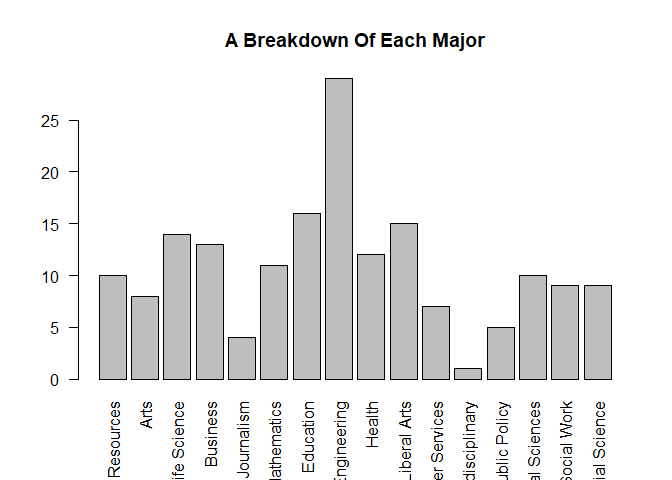
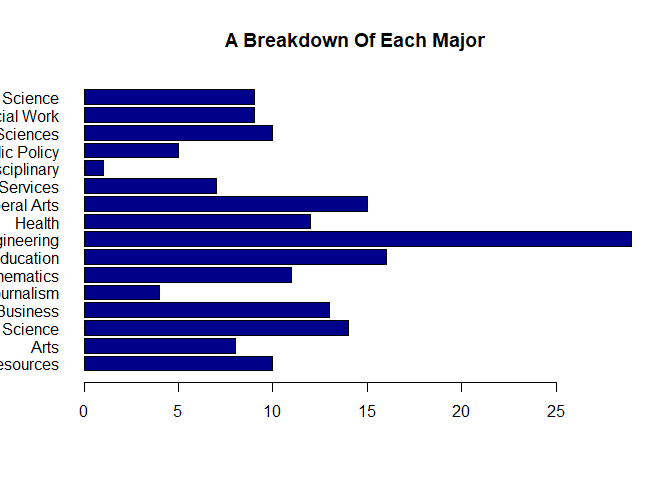
Added final information before turning in homework

diff --git a/CMadding_Livesession3assignment.html b/CMadding_Livesession3assignment.html
@@ -11,7 +11,7 @@
 
 <meta name="author" content="Chad Madding" />
 
-<meta name="date" content="2018-09-13" />
+<meta name="date" content="2018-09-16" />
 
 <title>Live Session 3 Assignment</title>
 
@@ -124,7 +124,7 @@ $(document).ready(function () {
 
 <h1 class="title toc-ignore">Live Session 3 Assignment</h1>
 <h4 class="author"><em>Chad Madding</em></h4>
-<h4 class="date"><em>September 13, 2018</em></h4>
+<h4 class="date"><em>September 16, 2018</em></h4>
 
 </div>
 
@@ -133,7 +133,11 @@ $(document).ready(function () {
 <h3>Questions</h3>
 <div id="github-cloning-20-points-using-git-clone-the-following-github-repository-to-your-local-machine-httpsgithub.comcaesar0301awesome-public-datasets.-in-rmarkdown-please-show-the-code-commented-out-as-its-not-r-syntax-that-you-used-to-create-a-new-directory-navigate-to-the-appropriate-directory-and-clone-the-repository-to-it.-one-git-command-per-line-please." class="section level4">
 <h4>1. GitHub Cloning (20 points): Using Git, clone the following GitHub repository to your local machine: <a href="https://github.com/caesar0301/awesome-public-datasets" class="uri">https://github.com/caesar0301/awesome-public-datasets</a>. In RMarkdown, please show the code (commented out, as it’s not R syntax) that you used to create a new directory, navigate to the appropriate directory, and clone the repository to it. One Git command per line, please.</h4>
-<p>mkdir awesome-public-datasets cd awesome-public-datasets git clone <a href="https://github.com/awesomedata/awesome-public-datasets.git" class="uri">https://github.com/awesomedata/awesome-public-datasets.git</a></p>
+<ol style="list-style-type: decimal">
+<li>mkdir awesome-public-datasets</li>
+<li>cd awesome-public-datasets</li>
+<li>git clone <a href="https://github.com/awesomedata/awesome-public-datasets.git" class="uri">https://github.com/awesomedata/awesome-public-datasets.git</a></li>
+</ol>
 </div>
 <div id="data-summary-20-points-from-this-aforementioned-cloned-repo-please-extract-titanic.csv.zip.-to-be-clear-this-does-not-have-to-be-done-in-git-or-command-line." class="section level4">
 <h4>2. Data Summary (20 points): From this aforementioned cloned repo, please extract titanic.csv.zip. To be clear, this does not have to be done in Git or command line.</h4>
@@ -199,20 +203,19 @@ table(titanic$Sex)</code></pre>
 <pre class="r"><code># A chart showing the breakdown of females and males on the Titanic
 sex &lt;- ggplot(titanic) + geom_bar(aes(x = titanic$Sex, fill = titanic$Sex))
 sex + labs(fill = &quot;Sex&quot;)+ labs(x = &quot;Sex&quot;)+ labs(title = &quot;Females and Males on the Titanic&quot;)</code></pre>
[1 lines of base64/hex data omitted]
-<pre class="r"><code>str(Titanic)</code></pre>
-<pre><code>##  'table' num [1:4, 1:2, 1:2, 1:2] 0 0 35 0 0 0 17 0 118 154 ...
-##  - attr(*, &quot;dimnames&quot;)=List of 4
-##   ..$ Class   : chr [1:4] &quot;1st&quot; &quot;2nd&quot; &quot;3rd&quot; &quot;Crew&quot;
-##   ..$ Sex     : chr [1:2] &quot;Male&quot; &quot;Female&quot;
-##   ..$ Age     : chr [1:2] &quot;Child&quot; &quot;Adult&quot;
-##   ..$ Survived: chr [1:2] &quot;No&quot; &quot;Yes&quot;</code></pre>
-<pre class="r"><code>apply(Titanic, c(3, 4), sum)</code></pre>
[1 lines of base64/hex data omitted]
+<ol start="3" style="list-style-type: lower-alpha">
+<li>Please use one apply function (to review: swirl() modules 11, 12) to output the means of Age, Fare, and Survival. Make sure the output is a real number for all three means.</li>
+</ol>
+<pre class="r"><code>#str(Titanic)
+#one apply function
+apply(Titanic, c(3, 4), sum)</code></pre>
 <pre><code>##        Survived
 ## Age       No Yes
 ##   Child   52  57
 ##   Adult 1438 654</code></pre>
-<pre class="r"><code>summary(titanic$Age)</code></pre>
+<pre class="r"><code>#means of Age, Fare, and Survival
+summary(titanic$Age)</code></pre>
 <pre><code>##    Min. 1st Qu.  Median    Mean 3rd Qu.    Max.    NA's 
 ##    0.42   20.12   28.00   29.70   38.00   80.00     177</code></pre>
 <pre class="r"><code>summary(titanic$Fare)</code></pre>
@@ -245,11 +248,40 @@ sex + labs(fill = &quot;Sex&quot;)+ labs(x = &quot;Sex&quot;)+ labs(title = &quo
 ## )</code></pre>
 <ol style="list-style-type: lower-alpha">
 <li>Create objects for the median Age, the minimum and maximum Duration of sleep, and the mean and standard deviation of the Rosenberg Self Esteem scale (RSES). You may need to specify a few options like in Problem 2 and live session.</li>
+</ol>
+<pre class="r"><code>#Create objects for the median Age, the minimum and maximum Duration of sleep, and the mean and standard deviation of the Rosenberg Self Esteem scale (RSES).
+medAge &lt;- median(sleep_data_01$Age, na.rm = TRUE)
+minSleep &lt;- min(sleep_data_01$Duration, na.rm = TRUE)
+maxSleep &lt;- max(sleep_data_01$Duration, na.rm = TRUE)
+meaRSES &lt;- mean(sleep_data_01$RSES, na.rm = TRUE)
+sdRSES &lt;- sd(sleep_data_01$RSES, na.rm = TRUE)</code></pre>
+<ol start="2" style="list-style-type: lower-alpha">
 <li>Create a data.frame object called report: it should consist of the median age, the RSES mean and standard deviation respectively divided by five (since there are five questions and these scores are summed), and the range of Duration (the statistical definition of range; it should be a single number.)</li>
+</ol>
+<pre class="r"><code>#standard deviation respectively divided by five
+sdRSESdiv &lt;- (sdRSES/5)
+#range of Duration
+rangeSleep &lt;- (maxSleep-minSleep)
+#Create a data.frame object called report
+report &lt;- data.frame(medAge, meaRSES, sdRSESdiv, rangeSleep)</code></pre>
+<ol start="3" style="list-style-type: lower-alpha">
 <li>Change the column names of this data.frame to MedianAge, SelfEsteem, SE_SD, and DurationRange.</li>
+</ol>
+<pre class="r"><code>colnames(report) &lt;- c(&quot;MedianAge&quot;, &quot;SelfEsteem&quot;, &quot;SE_SD&quot;, &quot;DurationRange&quot;)</code></pre>
+<ol start="4" style="list-style-type: lower-alpha">
 <li>Round the report to at most 2 digits: leave this as the closing line to the function.</li>
+</ol>
+<pre class="r"><code>#Round the report to at most 2 digits
+round(report)</code></pre>
+<pre><code>##   MedianAge SelfEsteem SE_SD DurationRange
+## 1        14         18     1             7</code></pre>
+<ol start="5" style="list-style-type: lower-alpha">
 <li>Finally, run the function on your sleep data to show the output.</li>
 </ol>
+<pre class="r"><code>#show the output
+report</code></pre>
+<pre><code>##   MedianAge SelfEsteem    SE_SD DurationRange
+## 1        14   18.11494 1.235304             7</code></pre>
 </div>
 <div id="fivethirtyeight-data-30-points-navigate-on-github-to-httpsgithub.comrudeboybertfivethirtyeight-and-read-readme.md.-it-will-include-everything-you-need." class="section level4">
 <h4>4. FiveThirtyEight Data (30 points): Navigate on GitHub to <a href="https://github.com/rudeboybert/fivethirtyeight" class="uri">https://github.com/rudeboybert/fivethirtyeight</a> and read README.md. It will include everything you need.</h4>
@@ -259,13 +291,12 @@ sex + labs(fill = &quot;Sex&quot;)+ labs(x = &quot;Sex&quot;)+ labs(title = &quo
 <pre class="r"><code>#install.packages(&quot;fivethirtyeight&quot;)
 library(&quot;fivethirtyeight&quot;)
 # To see a list of all data sets:
-data(package = &quot;fivethirtyeight&quot;)</code></pre>
+#data(package = &quot;fivethirtyeight&quot;)</code></pre>
 <ol start="2" style="list-style-type: lower-alpha">
 <li>In the listing of Data sets in package ‘fivethirtyeight,’ assign the 22nd data set to an object ‘df.’</li>
 </ol>
-<pre class="r"><code>vignette(&quot;fivethirtyeight&quot;, package = &quot;fivethirtyeight&quot;)</code></pre>
-<pre><code>## starting httpd help server ... done</code></pre>
-<pre class="r"><code>#Assigns the 22nd data set, college_recent_grads to a data frame called colgrads
+<pre class="r"><code>#vignette(&quot;fivethirtyeight&quot;, package = &quot;fivethirtyeight&quot;)
+#Assigns the 22nd data set, college_recent_grads to a data frame called colgrads
 colgrads &lt;- data.frame(college_recent_grads)</code></pre>
 <ol start="3" style="list-style-type: lower-alpha">
 <li>Use a more detailed list of the data sets to write out the URL in a comment to the related news story.</li>
@@ -274,9 +305,11 @@ colgrads &lt;- data.frame(college_recent_grads)</code></pre>
 <ol start="4" style="list-style-type: lower-alpha">
 <li>Using R command(s), give the dimensions and column names of this data frame.</li>
 </ol>
-<pre class="r"><code>dim(colgrads)</code></pre>
+<pre class="r"><code>#Print out the size of the data set
+dim(colgrads)</code></pre>
 <pre><code>## [1] 173  21</code></pre>
-<pre class="r"><code>colnames(colgrads, do.NULL = TRUE, prefix = &quot;col&quot;)</code></pre>
+<pre class="r"><code>#Shows the column names
+colnames(colgrads, do.NULL = TRUE, prefix = &quot;col&quot;)</code></pre>
 <pre><code>##  [1] &quot;rank&quot;                        &quot;major_code&quot;                 
 ##  [3] &quot;major&quot;                       &quot;major_category&quot;             
 ##  [5] &quot;total&quot;                       &quot;sample_size&quot;                
@@ -336,22 +369,35 @@ major_count</code></pre>
 <ol start="3" style="list-style-type: lower-alpha">
 <li>To make things easier to read, put par(las=2) before your plot to make the text perpendicular to the axis. Make a barplot of major_count. Make sure to label the title with something informative (check the vignette if you need), label the x and y axis, and make it any color other than grey. Assign the major_category labels to their respective bar. Flip the barplot horizontally so that bars extend to the right, not upward. All of these options can be done in a single pass of barplot(). Note: It’s okay if it’s wider than the preview pane.</li>
 </ol>
-<pre class="r"><code>par(las=2)
-barplot(major_count, main=&quot;A Breakdown Of Each Major&quot;)</code></pre>
[1 lines of base64/hex data omitted]
+<pre class="r"><code>#rotates text
+par(las=1)
+#a barplot of major_count
+barplot(major_count, horiz=TRUE, col=c(&quot;darkblue&quot;), main=&quot;A Breakdown Of Each Major&quot;)</code></pre>
[1 lines of base64/hex data omitted]
 <ol start="4" style="list-style-type: lower-alpha">
-<li>Write the fivethirtyeight data to a csv file. Make sure that it does not have row labels. ####6. Codebook (30 points):</li>
+<li>Write the fivethirtyeight data to a csv file. Make sure that it does not have row labels.</li>
+</ol>
+<pre class="r"><code>#Write the fivethirtyeight data to a csv file
+write.csv(college_recent_grads,'college_recent_grads.csv', row.names=FALSE)</code></pre>
+</div>
+<div id="codebook-30-points" class="section level4">
+<h4>6. Codebook (30 points):</h4>
+<ol style="list-style-type: lower-alpha">
 <li>Start a new repository on GitHub for your SMU MSDS homework. On your local device, make sure there is a directory for Homework at the minimum; you are welcome to add whatever you would like to this repo in addition to your requirements here.</li>
 </ol>
-<p>*The repository maybe found here: <a href="https://github.com/cmadding/SMU_MSDS_homework.git*" class="uri">https://github.com/cmadding/SMU_MSDS_homework.git*</a></p>
+<p>The repository maybe found here: <a href="https://github.com/cmadding/SMU_MSDS_homework.git" class="uri">https://github.com/cmadding/SMU_MSDS_homework.git</a></p>
 <ol start="2" style="list-style-type: lower-alpha">
 <li>Create a README.md file which explains the purpose of the repository, the topics included, the sources for the material you post, and contact information in case of questions. Remember, the one in the root directory should be general. You are welcome to make short READMEs for each assignment individually in other folders.</li>
 </ol>
-<p>*<a href="https://github.com/cmadding/SMU_MSDS_homework/blob/master/README.md*" class="uri">https://github.com/cmadding/SMU_MSDS_homework/blob/master/README.md*</a></p>
+<p><a href="https://github.com/cmadding/SMU_MSDS_homework/blob/master/README.md" class="uri">https://github.com/cmadding/SMU_MSDS_homework/blob/master/README.md</a></p>
 <ol start="3" style="list-style-type: lower-alpha">
-<li>In one (or more) of the nested directories, post your RMarkdown script, HTML file, and data from ‘fivethirtyeight.’ Make sure that in your README or elsewhere that you credit fivethirtyeight in some way.</li>
+<li>In one (or more) of the nested directories, post your RMarkdown script, HTML file, and data from fivethirtyeight. Make sure that in your README or elsewhere that you credit fivethirtyeight in some way.</li>
+</ol>
+<p>The README.md maybe found here: <a href="https://github.com/cmadding/Live-Session-Unit-03/blob/master/README.md" class="uri">https://github.com/cmadding/Live-Session-Unit-03/blob/master/README.md</a></p>
+<ol start="4" style="list-style-type: lower-alpha">
 <li>In your RMarkdown script, please provide the link to this GitHub so the grader can see it.</li>
 </ol>
+<p>All information from this weeks homework maybe found here: <a href="https://github.com/cmadding/Live-Session-Unit-03" class="uri">https://github.com/cmadding/Live-Session-Unit-03</a></p>
 </div>
 <div id="reminder" class="section level4">
 <h4>Reminder</h4>

diff --git a/CMadding_Livesession3assignment.md b/CMadding_Livesession3assignment.md
@@ -1,7 +1,7 @@
 ---
 title: "Live Session 3 Assignment"
 author: "Chad Madding"
-date: "September 13, 2018"
+date: "September 16, 2018"
 output:
   html_document:
     keep_md: true
@@ -11,9 +11,10 @@ output:
 
 ### Questions
 ####1.	 GitHub Cloning (20 points): Using Git, clone the following GitHub repository to your local machine: https://github.com/caesar0301/awesome-public-datasets.  In RMarkdown, please show the code (commented out, as it's not R syntax) that you used to create a new directory, navigate to the appropriate directory, and clone the repository to it.  One Git command per line, please.
-   mkdir awesome-public-datasets
-   cd awesome-public-datasets
-   git clone https://github.com/awesomedata/awesome-public-datasets.git
+
+   1. mkdir awesome-public-datasets
+   2. cd awesome-public-datasets
+   3. git clone https://github.com/awesomedata/awesome-public-datasets.git
 
 ####2.	Data Summary (20 points): From this aforementioned cloned repo, please extract titanic.csv.zip.  To be clear, this  does not have to be done in Git or command line.
    a. In R, please read in titanic.csv via either read.table() or read.csv(), assigning it to df. This dataset follows the passengers aboard the Titanic, including their fees paid, rooms rented, and survivorship status.
@@ -99,22 +100,12 @@ sex + labs(fill = "Sex")+ labs(x = "Sex")+ labs(title = "Females and Males on th
 ```
 
 ![](CMadding_Livesession3assignment_files/figure-html/females and males chart-1.png)<!-- -->
+   
    c. Please use one apply function (to review: swirl() modules 11, 12) to output the means of Age, Fare, and Survival. Make sure the output is a real number for all three means.
 
 ```r
-str(Titanic)
-```
-
-```
-##  'table' num [1:4, 1:2, 1:2, 1:2] 0 0 35 0 0 0 17 0 118 154 ...
-##  - attr(*, "dimnames")=List of 4
-##   ..$ Class   : chr [1:4] "1st" "2nd" "3rd" "Crew"
-##   ..$ Sex     : chr [1:2] "Male" "Female"
-##   ..$ Age     : chr [1:2] "Child" "Adult"
-##   ..$ Survived: chr [1:2] "No" "Yes"
-```
-
-```r
+#str(Titanic)
+#one apply function
 apply(Titanic, c(3, 4), sum)
 ```
 
@@ -126,6 +117,7 @@ apply(Titanic, c(3, 4), sum)
 ```
 
 ```r
+#means of Age, Fare, and Survival
 summary(titanic$Age)
 ```
 
@@ -178,11 +170,58 @@ sleep_data_01 <- read_csv("sleep_data_01.csv")
 ## )
 ```
 
-  a. Create objects for the median Age, the minimum and maximum Duration of sleep, and the mean and standard deviation of the Rosenberg Self Esteem scale (RSES).  You may need to specify a few options like in Problem 2 and live session.
+  a. Create objects for the median Age, the minimum and maximum Duration of sleep, and the mean and standard deviation of the Rosenberg Self Esteem scale (RSES). You may need to specify a few options like in Problem 2 and live session.
+
+```r
+#Create objects for the median Age, the minimum and maximum Duration of sleep, and the mean and standard deviation of the Rosenberg Self Esteem scale (RSES).
+medAge <- median(sleep_data_01$Age, na.rm = TRUE)
+minSleep <- min(sleep_data_01$Duration, na.rm = TRUE)
+maxSleep <- max(sleep_data_01$Duration, na.rm = TRUE)
+meaRSES <- mean(sleep_data_01$RSES, na.rm = TRUE)
+sdRSES <- sd(sleep_data_01$RSES, na.rm = TRUE)
+```
+  
   b. Create a data.frame object called report: it should consist of the median age, the RSES mean and standard deviation respectively divided by five (since there are five questions and these scores are summed), and the range of Duration (the statistical definition of range; it should be a single number.)
+
+```r
+#standard deviation respectively divided by five
+sdRSESdiv <- (sdRSES/5)
+#range of Duration
+rangeSleep <- (maxSleep-minSleep)
+#Create a data.frame object called report
+report <- data.frame(medAge, meaRSES, sdRSESdiv, rangeSleep)
+```
+  
   c. Change the column names of this data.frame to MedianAge, SelfEsteem, SE_SD, and DurationRange.
+
+```r
+colnames(report) <- c("MedianAge", "SelfEsteem", "SE_SD", "DurationRange")
+```
+  
   d. Round the report to at most 2 digits: leave this as the closing line to the function.
+
+```r
+#Round the report to at most 2 digits
+round(report)
+```
+
+```
+##   MedianAge SelfEsteem SE_SD DurationRange
+## 1        14         18     1             7
+```
+  
   e. Finally, run the function on your sleep data to show the output.
+
+```r
+#show the output
+report
+```
+
+```
+##   MedianAge SelfEsteem    SE_SD DurationRange
+## 1        14   18.11494 1.235304             7
+```
+  
   
 ####4. FiveThirtyEight Data (30 points): Navigate on GitHub to https://github.com/rudeboybert/fivethirtyeight and read README.md. It will include everything you need. 
   a. Install the fivethirtyeight package.
@@ -191,20 +230,13 @@ sleep_data_01 <- read_csv("sleep_data_01.csv")
 #install.packages("fivethirtyeight")
 library("fivethirtyeight")
 # To see a list of all data sets:
-data(package = "fivethirtyeight")
+#data(package = "fivethirtyeight")
 ```
 
   b. In the listing of Data sets in package ‘fivethirtyeight,’ assign the 22nd data set to an object ‘df.’
 
 ```r
-vignette("fivethirtyeight", package = "fivethirtyeight")
-```
-
-```
-## starting httpd help server ... done
-```
-
-```r
+#vignette("fivethirtyeight", package = "fivethirtyeight")
 #Assigns the 22nd data set, college_recent_grads to a data frame called colgrads
 colgrads <- data.frame(college_recent_grads)
 ```
@@ -215,6 +247,7 @@ colgrads <- data.frame(college_recent_grads)
   d. Using R command(s), give the dimensions and column names of this data frame.
 
 ```r
+#Print out the size of the data set
 dim(colgrads)
 ```
 
@@ -223,6 +256,7 @@ dim(colgrads)
 ```
 
 ```r
+#Shows the column names
 colnames(colgrads, do.NULL = TRUE, prefix = "col")
 ```
 
@@ -299,24 +333,37 @@ major_count
   c. To make things easier to read, put par(las=2) before your plot to make the text perpendicular to the axis. Make a barplot of major_count. Make sure to label the title with something informative (check the vignette if you need), label the x and y axis, and make it any color other than grey.  Assign the major_category labels to their respective bar. Flip the barplot horizontally so that bars extend to the right, not upward. All of these options can be done in a single pass of barplot(). Note: It’s okay if it’s wider than the preview pane.
 
 ```r
-par(las=2)
-barplot(major_count, main="A Breakdown Of Each Major")
+#rotates text
+par(las=1)
+#a barplot of major_count
+barplot(major_count, horiz=TRUE, col=c("darkblue"), main="A Breakdown Of Each Major")
 ```
 
 ![](CMadding_Livesession3assignment_files/figure-html/major count barplot-1.png)<!-- -->
   
   d. Write the fivethirtyeight data to a csv file.  Make sure that it does not have row labels.
-####6. Codebook (30 points): 
+
+```r
+#Write the fivethirtyeight data to a csv file
+write.csv(college_recent_grads,'college_recent_grads.csv', row.names=FALSE)
+```
+  
+####6. Codebook (30 points):
   a. Start a new repository on GitHub for your SMU MSDS homework. On your local device, make sure there is a directory for Homework at the minimum; you are welcome to add whatever you would like to this repo in addition to your requirements here.
   
-   *The repository maybe found here: https://github.com/cmadding/SMU_MSDS_homework.git*
+   The repository maybe found here: https://github.com/cmadding/SMU_MSDS_homework.git
    
   b. Create a README.md file which explains the purpose of the repository, the topics included, the sources for the material you post, and contact information in case of questions. Remember, the one in the root directory should be general. You are welcome to make short READMEs for each assignment individually in other folders.
   
-   *https://github.com/cmadding/SMU_MSDS_homework/blob/master/README.md*
+   https://github.com/cmadding/SMU_MSDS_homework/blob/master/README.md
    
-  c. In one (or more) of the nested directories, post your RMarkdown script, HTML file, and data from ‘fivethirtyeight.’ Make sure that in your README or elsewhere that you credit fivethirtyeight in some way.
+  c. In one (or more) of the nested directories, post your RMarkdown script, HTML file, and data from fivethirtyeight. Make sure that in your README or elsewhere that you credit fivethirtyeight in some way.
+  
+   The README.md maybe found here: https://github.com/cmadding/Live-Session-Unit-03/blob/master/README.md
+  
   d. In your RMarkdown script, please provide the link to this GitHub so the grader can see it.
+  
+   All information from this weeks homework maybe found here: https://github.com/cmadding/Live-Session-Unit-03
 
 ####Reminder
 To complete this assignment, please submit one RMarkdown and matching HTML file that includes questions 1-6 at least one hour before your 4th live session.  Please submit all files at the same time; only one submission is granted. 
